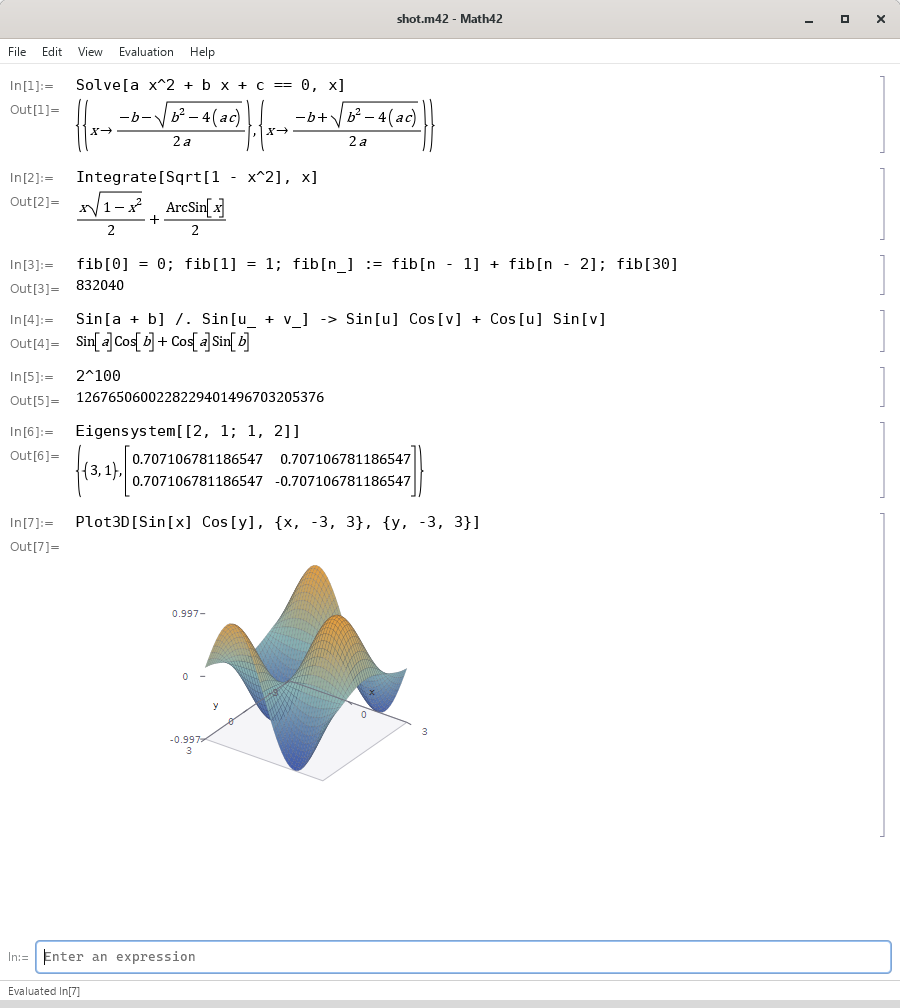
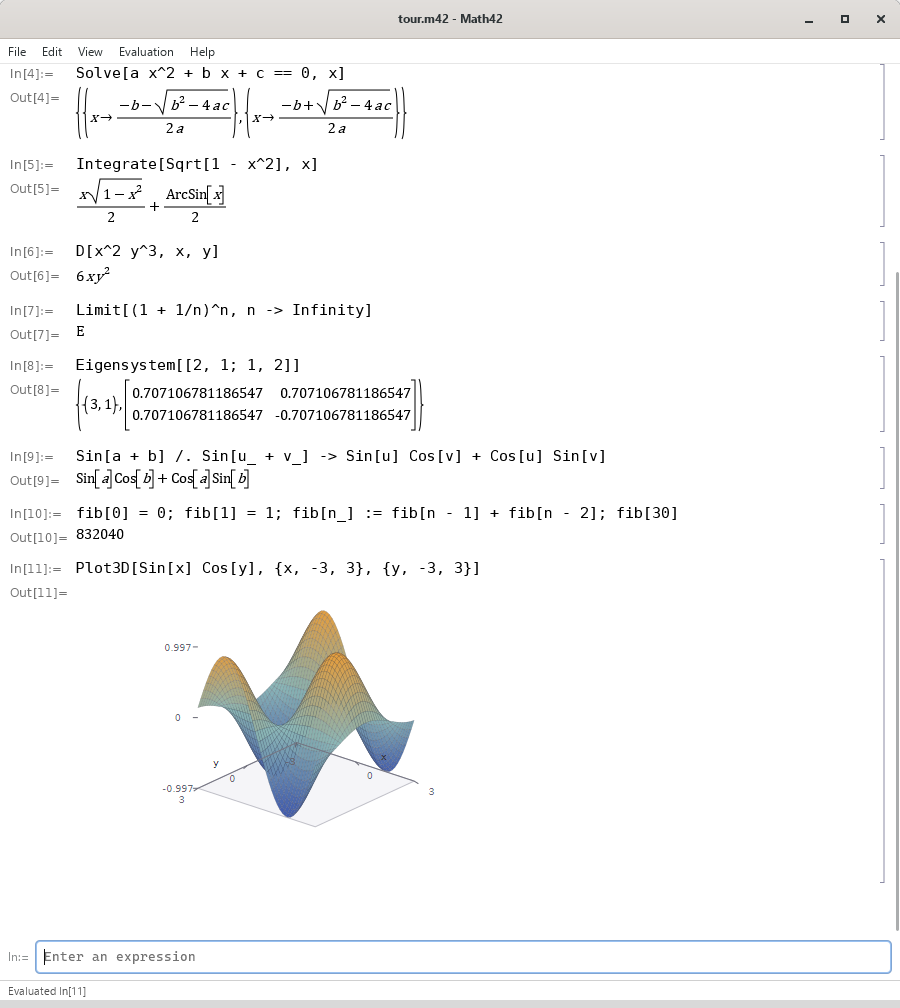
A curve through space, and a viewpoint that was hiding things
ParametricPlot3D[{Cos[t], Sin[t], t/3}, {t, 0, 18}] draws the helix it
should.  A curve keeps the box it lives in as it is built, and is
squashed into the cube the surfaces use so that it fills the room it
has, with the same floor under it to say which way is down.

Drawing it turned up something older and worse.  The box has always
been looked at from a yaw of 0.62 and a tilt of 0.52, and at that pair
the eye lies almost exactly in the plane z = x: the determinant of the
map that flattens that plane is -0.007, which is nothing.  So anything
lying in it was drawn as a line -- Plot3D[x, {x, -1, 1}, {y, -1, 1}]
was a stroke rather than a slope, and so was the circle
{Sin[t], Cos[t], Sin[t]}, and both had been for as long as there has
been a Plot3D.  A yaw of 0.70 and a tilt of 0.40 are well clear of
that plane and of z = y, and the comment above them now says why the
pair is not free to be chosen for looks alone.

Every surface is drawn from the new angle, so the picture in the
README is taken again.

One thing that looked like a bug was not: {Sin[3t], Cos[2t], Sin[t]}
really does flatten to a curve and a long sweep from this angle, which
was settled by projecting its six hundred points outside math42 and
drawing them as text.  The drawing was right and the reading of it was
wrong.

The table audit comes back empty, at 380 functions, and the eight
scripts are unchanged.

Claude-Session: https://claude.ai/code/session_016wGrAPcQyCaQzbPtjdjWp9

diff --git a/src/ui/m42-typeset.c b/src/ui/m42-typeset.c
@@ -807,8 +807,14 @@ nice_step (double span)
  * and outlined so the mesh shows.
  */
 
-#define VIEW_YAW   0.62      /* radians the box is turned */
-#define VIEW_TILT  0.52      /* radians it is tilted forward */
+/* Which way the box is looked at.  The pair matters more than it
+ * looks: at a yaw of 0.62 and a tilt of 0.52 the eye lies almost
+ * exactly in the plane z = x, so anything flat in that plane -- the
+ * surface z = x, or the curve {Sin[t], Cos[t], Sin[t]} -- is seen
+ * edge on and drawn as a line.  These two are well clear of that
+ * plane and of z = y. */
+#define VIEW_YAW   0.70      /* radians the box is turned */
+#define VIEW_TILT  0.40      /* radians it is tilted forward */
 
 /* A number cut down to a few figures, so that an axis says 3 and not
  * 2.99999999999999. */
@@ -869,6 +875,73 @@ height_colour (double t, double *r, double *g, double *b)
   *r = from[0] + (to[0] - from[0]) * u;
   *g = from[1] + (to[1] - from[1]) * u;
   *b = from[2] + (to[2] - from[2]) * u;
+}
+
+/* A curve through space, drawn in the same projection the surfaces
+ * use: the box it lives in is squashed to the cube from -1 to 1 so
+ * that whatever it is made of fills the room it has, and a floor is
+ * laid under it to say which way is down. */
+static void
+draw_curve3d (const M42Plot *p, cairo_t *cr, double x0, double y0, double w, double h)
+{
+  double scale, cx, cy;
+  double minx = 1e30, maxx = -1e30, miny = 1e30, maxy = -1e30;
+
+  for (int i = 0; i < 8; i++)
+    {
+      double px, py;
+
+      project (i & 1 ? 1 : -1, i & 2 ? 1 : -1, i & 4 ? 1 : -1, &px, &py);
+      minx = MIN (minx, px); maxx = MAX (maxx, px);
+      miny = MIN (miny, py); maxy = MAX (maxy, py);
+    }
+  scale = MIN (w / (maxx - minx), h / (maxy - miny)) * 0.94;
+  cx = x0 + w / 2 - (minx + maxx) / 2 * scale;
+  cy = y0 + h / 2 - (miny + maxy) / 2 * scale;
+
+  {
+    double px[4], py[4];
+
+    project (-1, -1, -1, &px[0], &py[0]);
+    project (1, -1, -1, &px[1], &py[1]);
+    project (1, 1, -1, &px[2], &py[2]);
+    project (-1, 1, -1, &px[3], &py[3]);
+    cairo_set_source_rgb (cr, 0.96, 0.96, 0.97);
+    cairo_move_to (cr, cx + px[0] * scale, cy + py[0] * scale);
+    for (int k = 1; k < 4; k++)
+      cairo_line_to (cr, cx + px[k] * scale, cy + py[k] * scale);
+    cairo_close_path (cr);
+    cairo_fill_preserve (cr);
+    cairo_set_source_rgb (cr, 0.75, 0.75, 0.78);
+    cairo_set_line_width (cr, 1);
+    cairo_stroke (cr);
+  }
+
+  for (guint c = 0; c < p->curves->len; c++)
+    {
+      const M42Curve3D *curve = g_ptr_array_index (p->curves, c);
+      guint n = curve->points->len / 3;
+      double sx = curve->xmax > curve->xmin ? 2 / (curve->xmax - curve->xmin) : 0;
+      double sy = curve->ymax > curve->ymin ? 2 / (curve->ymax - curve->ymin) : 0;
+      double sz = curve->zmax > curve->zmin ? 2 / (curve->zmax - curve->zmin) : 0;
+
+      cairo_set_line_width (cr, 1.6);
+      for (guint i = 0; i < n; i++)
+        {
+          const double *at = &g_array_index (curve->points, double, i * 3);
+          double x = -1 + (at[0] - curve->xmin) * sx;
+          double y = -1 + (at[1] - curve->ymin) * sy;
+          double z = -1 + (at[2] - curve->zmin) * sz;
+          double px, py;
+
+          project (x, y, z, &px, &py);
+          if (i == 0)
+            cairo_move_to (cr, cx + px * scale, cy + py * scale);
+          else
+            cairo_line_to (cr, cx + px * scale, cy + py * scale);
+        }
+      cairo_stroke (cr);
+    }
 }
 
 static void
@@ -1163,6 +1236,15 @@ draw_plot (const M42Box *b, cairo_t *cr, double x0, double y0)
   cairo_set_source_rgb (cr, 1, 1, 1);
   cairo_rectangle (cr, L, T, w, h);
   cairo_fill (cr);
+
+  /* A curve through space is drawn in the projection too. */
+  if (p->curves != NULL && p->curves->len > 0)
+    {
+      draw_curve3d (p, cr, 8, T + 2, PLOT_W - 16, h - 6);
+      pango_font_description_free (desc);
+      cairo_restore (cr);
+      return;
+    }
 
   /* A graph of two variables is a different picture altogether --
    * unless it is looked straight down on, which wants the axes and the

diff --git a/src/core/m42-eval.c b/src/core/m42-eval.c
@@ -5623,6 +5623,67 @@ plot3d (M42Session *s, const M42Node *call, gboolean flat)
   return out;
 }
 
+/* ParametricPlot3D[{fx, fy, fz}, {t, a, b}]: where a point goes as t
+ * runs, drawn in the same projection the surfaces use. */
+static M42Value *
+parametric_plot3d (M42Session *s, const M42Node *call)
+{
+  const M42Node *parts, *spec;
+  const char *var;
+  double t0, t1;
+  M42Value *err, *out;
+  M42Curve3D *curve;
+  const guint n = 600;
+
+  if (call->children->len < 2)
+    return m42_value_error ("ParametricPlot3D expects {x, y, z} and {t, a, b}");
+  parts = m42_node_child (call, 0);
+  spec = m42_node_child (call, 1);
+  if (parts->kind != M42_NODE_LIST || parts->children->len != 3)
+    return m42_value_error ("ParametricPlot3D expects three expressions in a list");
+  if (spec->kind != M42_NODE_LIST || spec->children->len != 3 ||
+      m42_node_child (spec, 0)->kind != M42_NODE_IDENT)
+    return m42_value_error ("ParametricPlot3D expects {t, a, b}");
+  var = m42_node_child (spec, 0)->name;
+  {
+    g_autoptr (M42Value) a = eval (s, m42_node_child (spec, 1));
+    g_autoptr (M42Value) b = eval (s, m42_node_child (spec, 2));
+
+    if (!need_number (a, "ParametricPlot3D", &t0, &err) ||
+        !need_number (b, "ParametricPlot3D", &t1, &err))
+      return err;
+  }
+  if (!(t1 > t0))
+    return m42_value_error ("ParametricPlot3D: the second end must be past the first");
+
+  out = m42_value_plot_new ();
+  curve = m42_plot_add_curve3d (out->u.plot);
+  for (guint i = 0; i < n; i++)
+    {
+      double t = t0 + (t1 - t0) * i / (double) (n - 1);
+      double x = number_at (s, m42_node_child (parts, 0), var, t);
+      double y = number_at (s, m42_node_child (parts, 1), var, t);
+      double z = number_at (s, m42_node_child (parts, 2), var, t);
+
+      m42_curve3d_add_point (curve, x, y, z);
+    }
+  if (curve->points->len < 6)
+    {
+      m42_value_unref (out);
+      return m42_value_error ("ParametricPlot3D: nothing came of that");
+    }
+  {
+    M42Value *bad = plot_options (s, call, 2, out->u.plot);
+
+    if (bad != NULL)
+      {
+        m42_value_unref (out);
+        return bad;
+      }
+  }
+  return out;
+}
+
 /* ListPlot3D, ListContourPlot and ListDensityPlot: the same three
  * pictures, but handed the grid of heights instead of a function to
  * work one out from.  The places run 1, 2, 3 across and down, as they
@@ -11251,6 +11312,9 @@ eval_call (M42Session *s, const M42Node *n)
   if (name_is (name, "LogLogPlot", "loglog")) return plot (s, n, TRUE, TRUE);
   if (name_is (name, "ContourPlot", "contour")) return contour_plot (s, n);
   if (name_is (name, "ParametricPlot", NULL)) return parametric_plot (s, n, FALSE);
+  if (name_is (name, "ParametricPlot3D", NULL))
+    return parametric_plot3d (s, n);
+
   if (name_is (name, "ListPlot3D", NULL) || name_is (name, "ListContourPlot", NULL) ||
       name_is (name, "ListDensityPlot", NULL))
     {

diff --git a/src/core/m42-value.h b/src/core/m42-value.h
@@ -61,8 +61,18 @@ typedef struct {
   double  r, g, b;
 } M42Contour;
 
+/* A curve through space: the points it passes through, one after
+ * another, and the box they live in so that it can be scaled to the
+ * room it has. */
+typedef struct {
+  GArray *points;      /* of double: x, y, z, one point after another */
+  double  r, g, b;
+  double  xmin, xmax, ymin, ymax, zmin, zmax;
+} M42Curve3D;
+
 typedef struct {
   GPtrArray *series;   /* of M42Series* */
+  GPtrArray *curves;   /* of M42Curve3D*, when it is a curve through space */
   M42Surface *surface; /* set when this is a graph of two variables */
   GPtrArray *contours; /* of M42Contour*, when it is a contour plot */
   double xmin, xmax, ymin, ymax;
@@ -138,6 +148,9 @@ M42Value *m42_value_string (const char *text);
  * by the caller and its range worked out by m42_surface_autoscale. */
 M42Surface *m42_plot_add_surface (M42Plot *plot, guint nx, guint ny);
 M42Contour *m42_plot_add_contour (M42Plot *plot, double level, guint which, guint of);
+/* A curve through space; its box is worked out as points are added. */
+M42Curve3D *m42_plot_add_curve3d (M42Plot *plot);
+void        m42_curve3d_add_point (M42Curve3D *c, double x, double y, double z);
 void        m42_contour_add_segment (M42Contour *c, double x1, double y1, double x2, double y2);
 void        m42_surface_autoscale (M42Surface *s);
 M42Series *m42_plot_add_series (M42Plot *plot, M42SeriesKind kind);

diff --git a/src/core/m42-value.c b/src/core/m42-value.c
@@ -181,6 +181,7 @@ static void
 plot_free (M42Plot *p)
 {
   g_clear_pointer (&p->contours, g_ptr_array_unref);
+  g_clear_pointer (&p->curves, g_ptr_array_unref);
   if (p->surface != NULL)
     {
       g_free (p->surface->z);
@@ -323,6 +324,43 @@ m42_plot_add_series (M42Plot *plot, M42SeriesKind kind)
   s->r = c[0]; s->g = c[1]; s->b = c[2];
   g_ptr_array_add (plot->series, s);
   return s;
+}
+
+static void
+curve3d_free (M42Curve3D *c)
+{
+  g_array_unref (c->points);
+  g_free (c);
+}
+
+M42Curve3D *
+m42_plot_add_curve3d (M42Plot *plot)
+{
+  M42Curve3D *c = g_new0 (M42Curve3D, 1);
+
+  c->points = g_array_new (FALSE, FALSE, sizeof (double));
+  c->r = 0.20;
+  c->g = 0.40;
+  c->b = 0.75;
+  c->xmin = c->ymin = c->zmin = INFINITY;
+  c->xmax = c->ymax = c->zmax = -INFINITY;
+  if (plot->curves == NULL)
+    plot->curves = g_ptr_array_new_with_free_func ((GDestroyNotify) curve3d_free);
+  g_ptr_array_add (plot->curves, c);
+  return c;
+}
+
+void
+m42_curve3d_add_point (M42Curve3D *c, double x, double y, double z)
+{
+  double xyz[3] = { x, y, z };
+
+  if (!isfinite (x) || !isfinite (y) || !isfinite (z))
+    return;
+  g_array_append_vals (c->points, xyz, 3);
+  c->xmin = MIN (c->xmin, x);  c->xmax = MAX (c->xmax, x);
+  c->ymin = MIN (c->ymin, y);  c->ymax = MAX (c->ymax, y);
+  c->zmin = MIN (c->zmin, z);  c->zmax = MAX (c->zmax, z);
 }
 
 /* A contour, coloured by where its level falls among the others. */

diff --git a/src/core/m42-help.c b/src/core/m42-help.c
@@ -335,6 +335,7 @@ static const M42Function FUNCTIONS[] = {
   { "LogLogPlot", "loglog", "LogLogPlot[f, {x, a, b}]", "with both axes in powers of ten", "Graphs" },
   { "StemPlot", "stem", "StemPlot[list]", "a stalk from the axis with a dot on top", "Graphs" },
   { "StairsPlot", "stairs", "StairsPlot[list]", "held flat, then stepped", "Graphs" },
+  { "ParametricPlot3D", NULL, "ParametricPlot3D[{x, y, z}, {t, a, b}]", "a curve through space", "Graphs" },
   { "DensityPlot", NULL, "DensityPlot[f, {x, a, b}, {y, c, d}]", "the same surface looked straight down on, as colour", "Graphs" },
   { "ListPlot3D", NULL, "ListPlot3D[grid]", "a surface from a grid of heights", "Graphs" },
   { "ListContourPlot", NULL, "ListContourPlot[grid]", "its contours", "Graphs" },

diff --git a/docs/USER-GUIDE.md b/docs/USER-GUIDE.md
@@ -819,6 +819,7 @@ In[s4]:= IntegerString[255, 16]                    Out[s4]= "ff"
 | `ListPlot`/`scatter`, `ListLinePlot`, `plot` | points, or points joined up |
 | `BarChart`/`bar`, `Histogram`/`hist` | bars, and data in bins |
 | `ContourPlot`/`contour` | the curves along which a function keeps its value |
+| `ParametricPlot3D[{x, y, z}, {t, a, b}]` | a curve through space |
 | `DensityPlot[f, {x, a, b}, {y, c, d}]` | the same surface looked straight down on, painted by height |
 | `ListPlot3D[grid]`, `ListContourPlot[grid]`, `ListDensityPlot[grid]` | the same three from a grid of heights rather than from a function |
 | `LogPlot`/`semilogy`, `LogLogPlot`/`loglog` | an axis in powers of ten |

diff --git a/README.md b/README.md
@@ -153,7 +153,8 @@ and `AllTrue`.
 projection with its mesh and a colour taken from its height,
 `ParametricPlot`, `PolarPlot`,
 `ContourPlot`/`contour` for the curves along which a function keeps its
-value, `DensityPlot` for the same surface looked straight down on,
+value, `ParametricPlot3D` for a curve through space,
+`DensityPlot` for the same surface looked straight down on,
 `ListPlot3D`, `ListContourPlot` and `ListDensityPlot` for those three
 from a grid of numbers, `LogPlot`/`semilogy` and `LogLogPlot`/`loglog` for an axis in
 powers of ten,
